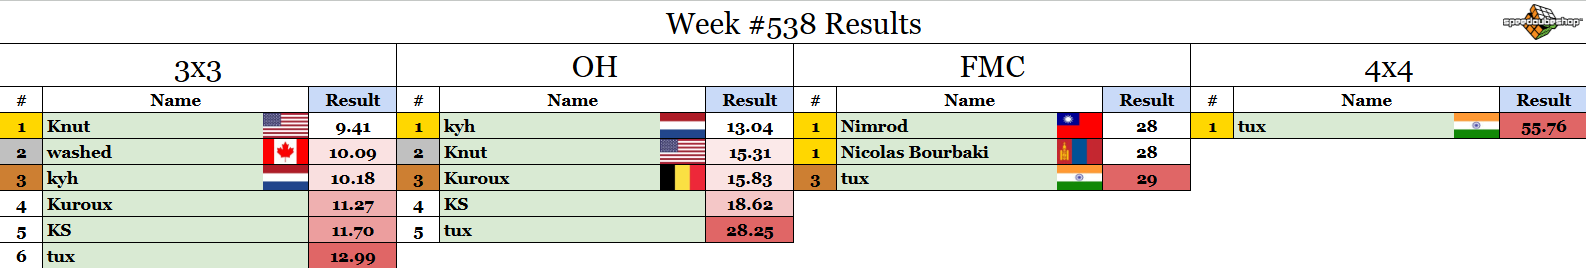
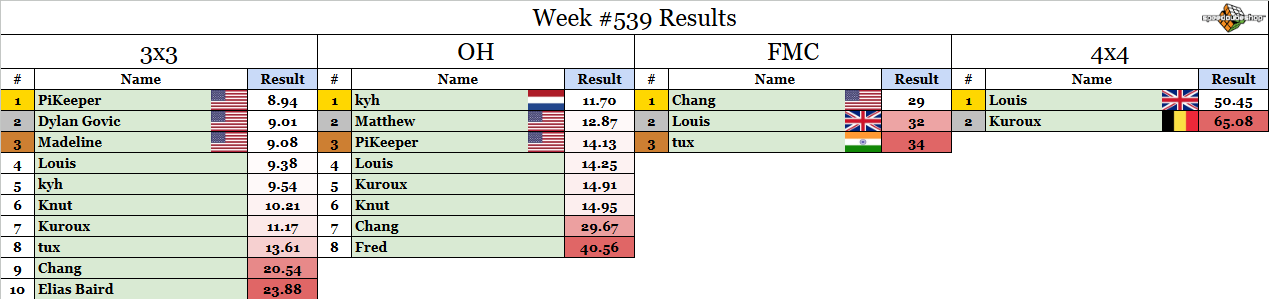
weekly comp update

diff --git a/src/weeklycomp/post.md b/src/weeklycomp/post.md
@@ -1,9 +1,9 @@
-## Weekly Competition #539 
+## Weekly Competition #540 
  
  This weekly competition is proudly sponsored by SpeedCubeShop.com 
  One competitor will be selected at random to receive a $5 SCS gift card! 
  
- Congrats to last week's winner by a random draw: **Nimrod**. DM me for the prize. 
+ Congrats to last week's winner by a random draw: **Madeline**. DM me for the prize. 
  
  Check whether or not you participated this week yet at [https://bit.ly/RMSWeeklyCompSummary](https://bit.ly/RMSWeeklyCompSummary)  
  
@@ -17,30 +17,31 @@
  7. The comp runs until Sunday 5pm Eastern time (more or less). Enter your times using the forms links below. 
  
 ### 3x3: [Submission Form](https://forms.gle/H5xoCWvGKnZ92fQt8) 
- 1. F2 L2 D2 B2 R2 F R2 B' L2 D2 F2 R' D2 B D L' U L2 U F2 
- 2. R' F L2 D R L2 U B2 R' F' R2 U2 F' R2 B2 R2 B U2 B R2 F' 
- 3. U' R' D2 L D2 B' D' F2 D2 R2 L F2 L2 B2 U2 R F2 B2 R2 U 
- 4. D U2 B L2 B' R2 D2 L2 R2 B' U' L' U R F2 L2 B 
- 5. D2 R2 F L2 U2 B' L2 U2 B2 F U2 B2 U' R' B L2 D F' U2 F' U2 
+ 1. F U2 R2 B F2 D2 L2 B2 D2 R2 B2 D R D U2 R' B' R2 B L' 
+ 2. U B R2 B2 U R2 U2 L2 U' B2 U B2 U2 B2 L R F R2 U2 R' F 
+ 3. F R' U2 L' R U2 F2 U2 L B2 U2 R' D R F2 U L2 B R U R2 
+ 4. B' L F B2 L' U2 B R' U F2 B2 U F2 D R2 B2 D B2 D' L' 
+ 5. L' F U2 B' R U2 R D R2 F2 D' B2 U2 L2 F2 R2 D B2 D' L' F2 
  
 ### OH: [Submission Form](https://forms.gle/UgRLW3K1d5KkMGfM9) 
- 1. U' B2 R2 D2 R2 D' F2 D2 R2 U' R2 U R' B R D2 R2 F' U' B' 
- 2. B2 D R2 F L2 B2 U2 L2 U2 F L2 B' U2 B2 R B D2 B R F' D 
- 3. F L D' R2 B2 L2 F2 D' R2 U' B2 U' L' B2 F' R2 B' D2 L' D2 
- 4. U2 L F2 U2 F2 L' R2 F2 U2 F2 U2 B L2 U' L' U L2 U' R D' 
- 5. D2 R2 D F2 R2 D R2 B2 R2 U R2 L B R2 F2 L U2 L' B2 
+ 1. R2 B U2 R' U2 D2 F U' F2 L' D2 L' F2 U2 L' F2 L U2 R 
+ 2. R2 B2 L2 B2 U2 R2 D' B2 D' R2 U2 L D L' D' F U2 B2 D2 L' 
+ 3. F' L2 U2 F2 D2 B L2 F' D2 F2 R2 L' U2 B D2 F' D' U' R F2 D' 
+ 4. U2 L' D R' B D' F' L2 U' D' B2 R2 B2 R2 U R2 D B2 
+ 5. U2 L' D2 R' F2 U2 L2 D2 R' B2 L F' L U2 B D U' R2 B2 L 
  
 ### FMC: [Submission Form](https://forms.gle/1P9VUgZmA1pibwvL9) 
- 1. R' U' F B U2 F R2 D2 U2 F' U2 L2 U2 B L F U L' D' F2 U2 R' B' L R' U' F 
+ 1. R' U' F R2 B2 U R B' L' F' U L2 D R2 F' R2 U2 F B' U2 F L2 U2 L2 R' U' F 
  
 ### 4x4: [Submission Form](https://forms.gle/bHNjncvEcPvFWBP2A) 
- 1. U' F2 U2 L2 F2 L2 U D' R2 L' B2 L F' D' B2 L2 B' R' U' Fw2 U Uw2 R' L F2 D F2 Uw2 Rw2 F2 L2 Fw U' Uw2 L2 F R Uw Fw U2 Fw2 R2 Uw' B 
- 2. R2 F U2 F' U L' D F' D2 F U2 F' U2 F U2 D2 L2 F2 R F' Rw2 Uw2 F D2 Rw2 Uw2 F' L Uw2 Fw2 R2 D2 Uw' L B2 R2 D' L Rw B2 Uw' R2 Fw L2 F B' 
- 3. F' D2 B' D2 L2 B R2 F2 L2 B' L2 B' U' F2 U' R2 L' U' R F' L Uw2 R F' L' D2 Rw2 Uw2 B L2 D2 Fw2 D R Uw L U' L2 Fw' U' D2 Uw Rw B' U2 
- 4. L' B R' F U R U2 L' F D2 L2 F' B' R2 F' L2 B D2 Uw2 Fw2 D' R2 F R2 L2 D' Rw2 D R2 B Rw' D2 B' D2 Uw2 Fw' R F Rw' D' Fw L' 
- 5. B U L2 D F2 D2 B2 L2 B2 R2 U' F2 D R D' F2 U' B D' R' U' Rw2 B2 D' B' Fw2 L2 U2 D2 Uw2 Rw2 D2 Rw' B L U Fw2 D' R L Uw L Fw' L' Uw2 R2 
+ 1. L2 F' B2 R2 B' U2 F U2 F' R2 L D2 B' L D' L2 B' R U2 F Uw2 F' Uw2 R' B' R Fw2 L F2 Rw2 Uw2 L F U Uw' R' U' Rw2 D2 Rw' B U' Rw Fw L' 
+ 2. R F' R2 U2 R2 F R2 B U2 B D2 F U B L U2 B' R U' D' R' Rw2 U' F Rw2 F' D' B' L2 B' Rw2 D2 Fw2 R2 Rw Fw2 L2 F U' Fw U2 Rw Uw' R U2 
+ 3. U R2 U' R2 D2 F2 L2 F2 U L2 F2 D F' R B U' R' L' U D' L' Rw2 D Fw2 R D2 B2 D' Fw2 R2 L' U R' B' Rw2 B' Fw' R' U' F2 Rw B2 Uw F Rw2 U' 
+ 4. R' D L2 U' B2 D' F2 R2 U2 B2 R2 U2 F U' B R U F2 R' Uw2 L2 Fw2 R F B R U2 Uw2 B' U2 B' Uw R' Rw2 F D2 R' D Fw' Rw Uw Rw' Fw L' 
+ 5. R' U' D2 B2 D2 L2 B' D2 L2 F U2 R2 B' R2 D' R U2 L D2 L' U' Uw2 R' D2 Fw2 U2 B' Rw2 Uw2 R Fw2 Uw2 R D' F' Uw' Rw2 Fw2 Uw Rw' Uw Rw D Rw2 F2 
  
 ### Winning FMC solutions from last week: 
- 1. Nimrod, 28 moves: [SOLUTION](https://bit.ly/4lwSp9p) 
- 1. Nicolas Bourbaki, 28 moves: [SOLUTION](https://bit.ly/4l709PJ) 
- 3. tux, 29 moves: [SOLUTION](https://tinyurl.com/y6fpva2u) 
+ 1. Chang, 29 moves: [SOLUTION](https://bit.ly/44PTwud) 
+ 2. Louis, 32 moves: [SOLUTION](https://bit.ly/4lKs2Nk) 
+ 3. tux, 34 moves: [SOLUTION](https://bit.ly/4kyz32R) 
+ 
